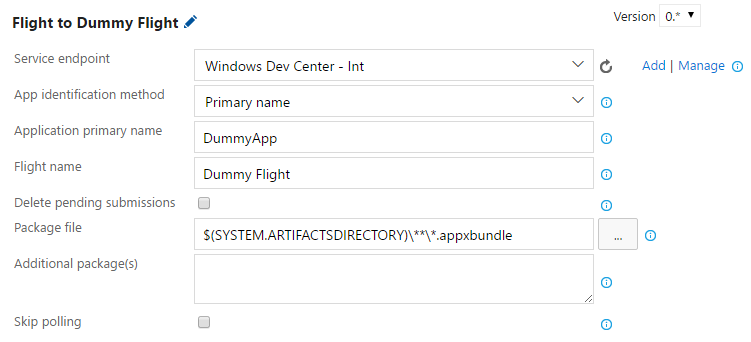
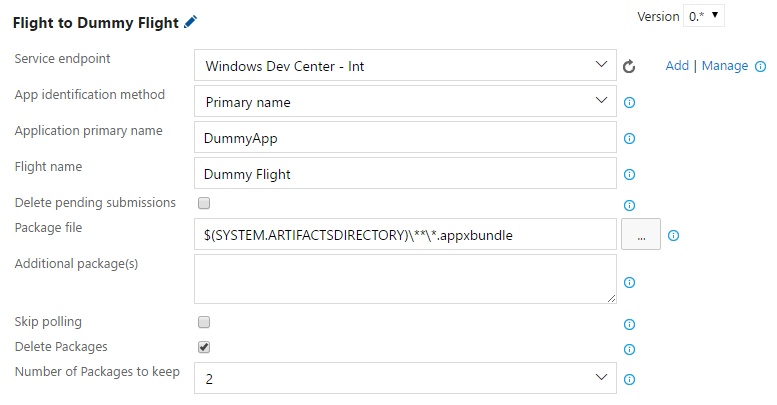
Add functionality to delete packages (#29)
* Add functionality to delete packages

* Address PR feedback

* Commit Screenshot changes

* Update ReadMe section

* Address PR feedback

* Add documentation for Publish task as well

diff --git a/tasks/common/apiHelper.ts b/tasks/common/apiHelper.ts
@@ -29,11 +29,80 @@ export var ROOT: string;
 /** How many times should we retry. */
 export const NUM_RETRIES = 5;
 
+/** Maximum number of packages allowed in one flight group */
+export const MAX_PACKAGES_PER_GROUP = 25;
+
 /**
  * The message used when a commit fails. Note that this does not need to be very
  * informative since the user will see more details in additional messages.
  */
 const COMMIT_FAILED_MSG = 'Commit failed';
+
+export function deleteOldPackages(submissionPackages: any, numberOfPackagesToKeep: number): void
+{
+    if (numberOfPackagesToKeep === undefined) {
+        return;
+    }
+    
+    var dict = {};
+    // For each of the target device family in the submission resource
+    // get all the different versions available
+    submissionPackages.forEach(submissionPackage => 
+    {
+        if (submissionPackage.hasOwnProperty('targetDeviceFamilies') && 
+            Array.isArray(submissionPackage.targetDeviceFamilies) && 
+            submissionPackage.targetDeviceFamilies.length > 0)
+        {
+            submissionPackage.targetDeviceFamilies.forEach(targetDeviceFamily =>
+            {
+                if (dict[targetDeviceFamily] === undefined)
+                {
+                    dict[targetDeviceFamily] = [];
+                }
+                dict[targetDeviceFamily].push(submissionPackage.version);
+            });
+        }
+        else
+        {
+            var key = submissionPackage.targetPlatform + "_" + submissionPackage.architecture;
+            if (dict[key] === undefined)
+            {
+                dict[key] = [];
+            }
+            dict[key].push(submissionPackage.version);
+        }
+    });
+    
+    var versionsToKeep = new Set();
+    for (var entry in dict) 
+    {
+        if (dict.hasOwnProperty(entry)) 
+        {
+            // Sort in descending order of versions and only keep number of packages that we need
+            dict[entry].sort(function (a, b) { return (a > b) ? -1 : (a < b) ? 1 : 0; });
+            dict[entry].slice(0, numberOfPackagesToKeep).forEach(bundle => versionsToKeep.add(bundle));
+        }
+    }
+    
+    if (versionsToKeep.size > 0)
+    {
+        tl.debug("Keeping packages with following versions:");
+        versionsToKeep.forEach(version =>
+        {
+            tl.debug(`${version}`);
+        });
+    }
+    
+    // Mark all the packages for deletion which are not present in the set of versions we calculated
+    submissionPackages.forEach(submissionPackage =>
+    {
+        if (!versionsToKeep.has(submissionPackage.version))
+        {
+            tl.debug(`Removing ${submissionPackage.version}`);
+            submissionPackage.fileStatus = 'PendingDelete';
+        }
+    });
+}
 
 /**
  * Tries to obtain an app resource from the primary name of an app.

diff --git a/tasks/store-publish/publishUi.ts b/tasks/store-publish/publishUi.ts
@@ -2,6 +2,7 @@
  * Entry point for the Publish task. Gathers parameters and performs validation.
  */
 
+import api = require('../common/apiHelper');
 import inputHelper = require('../common/inputHelper');
 import request = require('../common/requestHelper');
 import pub = require('./publish');
@@ -42,7 +43,9 @@ function gatherParams()
         updateImages: tl.getBoolInput('updateImages', false),
         zipFilePath : path.join(tl.getVariable('Agent.WorkFolder'), 'temp.zip'),
         packages : [],
-        skipPolling : tl.getBoolInput('skipPolling', true)
+        skipPolling : tl.getBoolInput('skipPolling', true),
+        deletePackages: tl.getBoolInput('deletePackages', true),
+        numberOfPackagesToKeep: api.MAX_PACKAGES_PER_GROUP
     };
 
     // Packages
@@ -59,6 +62,11 @@ function gatherParams()
     )
 
     taskParams.packages = packages.map(p => p.trim()).filter(p => p.length != 0);
+
+    if (taskParams.deletePackages)
+    {
+        taskParams.numberOfPackagesToKeep = parseInt(tl.getInput('numberOfPackagesToKeep', true));
+    }
 
     // App identification
     var nameType = tl.getInput('nameType', true);
@@ -99,6 +107,8 @@ function dumpParams(taskParams: pub.PublishParams): void
     tl.debug(`Metadata root: ${taskParams.metadataRoot}`);
     tl.debug(`Packages: ${taskParams.packages.join(',')}`);
     tl.debug(`skipPolling: ${taskParams.skipPolling}`);
+    tl.debug(`deletePackages: ${taskParams.deletePackages}`);
+    tl.debug(`numberOfPackagesToKeep: ${taskParams.numberOfPackagesToKeep}`);
 }
 
 async function main()

diff --git a/tasks/store-flight/flightUi.ts b/tasks/store-flight/flightUi.ts
@@ -2,6 +2,7 @@
  * Entry point for the Flight task. Gathers parameters and performs validation.
  */
 
+import api = require('../common/apiHelper');
 import inputHelper = require('../common/inputHelper');
 import request = require('../common/requestHelper');
 import fli = require('./flight');
@@ -41,7 +42,9 @@ function gatherParams()
         force: tl.getBoolInput('force', true),
         zipFilePath: path.join(tl.getVariable('Agent.WorkFolder'), 'temp.zip'),
         packages: [],
-        skipPolling: tl.getBoolInput('skipPolling', true)
+        skipPolling: tl.getBoolInput('skipPolling', true),
+        deletePackages: tl.getBoolInput('deletePackages', true),
+        numberOfPackagesToKeep: api.MAX_PACKAGES_PER_GROUP
     };
 
     // Packages
@@ -62,6 +65,11 @@ function gatherParams()
     if (taskParams.packages.length == 0)
     {
         throw new Error(`At least one package must be provided`);
+    }
+    
+    if (taskParams.deletePackages)
+    {
+        taskParams.numberOfPackagesToKeep = parseInt(tl.getInput('numberOfPackagesToKeep', true));
     }
 
     // App identification
@@ -99,6 +107,8 @@ function dumpParams(taskParams: fli.FlightParams): void
     tl.debug(`Packages: ${taskParams.packages.join(',')}`);
     tl.debug(`Local ZIP file path: ${taskParams.zipFilePath}`);
     tl.debug(`skipPolling: ${taskParams.skipPolling}`);
+    tl.debug(`deletePackages: ${taskParams.deletePackages}`);
+    tl.debug(`numberOfPackagesToKeep: ${taskParams.numberOfPackagesToKeep}`);
 }
 
 async function main()

diff --git a/tasks/store-flight/flight.ts b/tasks/store-flight/flight.ts
@@ -37,6 +37,12 @@ export interface CoreFlightParams
 
     /** If true, we will exit immediately after commit without polling submission till app is published. */
     skipPolling: boolean;
+
+    /** If true, we will delete some or all of the old packages from the flight group we are submitting to. */
+    deletePackages: boolean;
+
+    /** Specifies number of packages per unique target device family and target platform to keep in the flight group. */
+    numberOfPackagesToKeep: number;
 }
 
 export interface AppIdParam
@@ -109,6 +115,12 @@ export async function flightTask(params: FlightParams)
 
     console.log('Creating flight submission...');
     var flightSubmissionResource = await createFlightSubmission();
+
+    if (taskParams.deletePackages)
+    {
+        console.log('Deleting old packages...');
+        api.deleteOldPackages(flightSubmissionResource.flightPackages, taskParams.numberOfPackagesToKeep);
+    }
 
     console.log('Updating flight submission...');
     await putFlightSubmission(flightSubmissionResource);

diff --git a/tasks/store-publish/publish.ts b/tasks/store-publish/publish.ts
@@ -70,6 +70,12 @@ export interface CorePublishParams
 
     /** If true, we will exit immediately after commit without polling submission till app is published. */
     skipPolling: boolean;
+
+    /** If true, we will delete some or all of the old packages from the Production group. */
+    deletePackages: boolean;
+
+    /** Specifies number of packages per unique target device family and target platform to keep in the Production group. */
+    numberOfPackagesToKeep: number;
 }
 
 export interface AppIdParam
@@ -143,6 +149,12 @@ export async function publishTask(params: PublishParams)
 
     console.log('Creating submission...');
     var submissionResource = await createAppSubmission();
+
+    if (taskParams.deletePackages)
+    {
+        console.log('Deleting old packages...');
+        api.deleteOldPackages(submissionResource.applicationPackages, taskParams.numberOfPackagesToKeep);
+    }
 
     console.log('Updating submission...');
     await putMetadata(submissionResource);

diff --git a/README.md b/README.md
@@ -81,6 +81,10 @@ This task allows you to publish your app on the Store by creating a submission o
 
 * Skip polling (Checkbox) - If checked, will skip polling the submission after committing it to Dev Center. Otherwise, it will keep polling the submission till it gets published (which typically takes around 2 hours). **Warning**: If you check this box, you will not see errors, if any, that your submission may run into. You will have to manually check the status of your submission in Dev Center.
 
+* Delete Packages (*Checkbox, optional*) - If checked, will enable deletion of one or more old packages (sorted by version). Checking this box will enable a dropdown "Number of packages to keep" explained in following point. If not checked, will not delete any old package.
+
+* Number of Packages to keep (*Picklist, required*) - Specify number of latest packages (sorted by version) to be kept per unique target device family and target platform. For example, if you have a mix of 3 distinct packages each for Windows 10 desktop, mobile and Windows 8.1 X64 platform (so in total 9 packages), and you specify 2 in this box, then the oldest package in each group will be deleted (total packages after deletion will be 6).
+
 You only have to select the packages you want to update. If you have a package that will not be updated as part of your release, you do not have to specify it.
 
 #### Metadata format
@@ -199,7 +203,11 @@ This task allows you to publish your app to specified flight on the Store by cre
 
 * Additional package(s) (*Text, optional*) - A list of paths, one per line, of additional packages that your app needs, for example to support multiple platforms. Each individual path supports Minimatch pattern.
 
-* Skip polling (Checkbox) - If checked, will skip polling the submission after committing it to Dev Center. Otherwise, it will keep polling the submission till it gets published (which typically takes around 2 hours). **Warning**: If you check this box, you will not see errors, if any, that your submission may run into. You will have to manually check the status of your submission in Dev Center.
+* Skip polling (*Checkbox*) - If checked, will skip polling the submission after committing it to Dev Center. Otherwise, it will keep polling the submission till it gets published (which typically takes around 2 hours). **Warning**: If you check this box, you will not see errors, if any, that your submission may run into. You will have to manually check the status of your submission in Dev Center.
+
+* Delete Packages (*Checkbox, optional*) - If checked, will enable deletion of one or more old packages (sorted by version). Checking this box will enable a dropdown "Number of packages to keep" explained in following point. If not checked, will not delete any old package.
+
+* Number of Packages to keep (*Picklist, required*) - Specify number of latest packages (sorted by version) to be kept per unique target device family and target platform. For example, if you have a mix of 3 distinct packages each for Windows 10 desktop, mobile and Windows 8.1 X64 platform (so in total 9 packages), and you specify 2 in this box, then the oldest package in each group will be deleted (total packages after deletion will be 6).
 
 You only have to select the packages you want to update. If you have a package that will not be updated as part of your release, you do not have to specify it.
 You have to specify at least one package.
